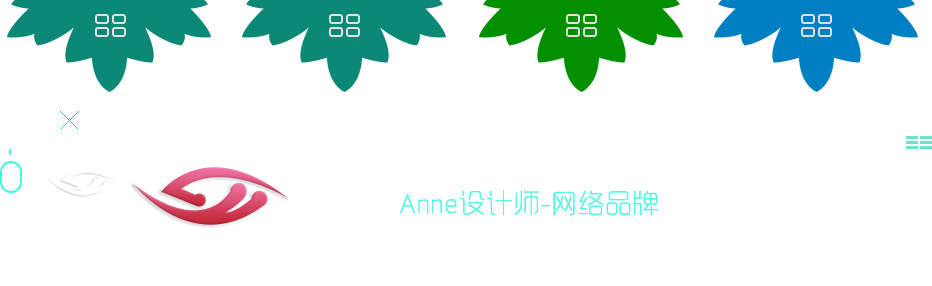
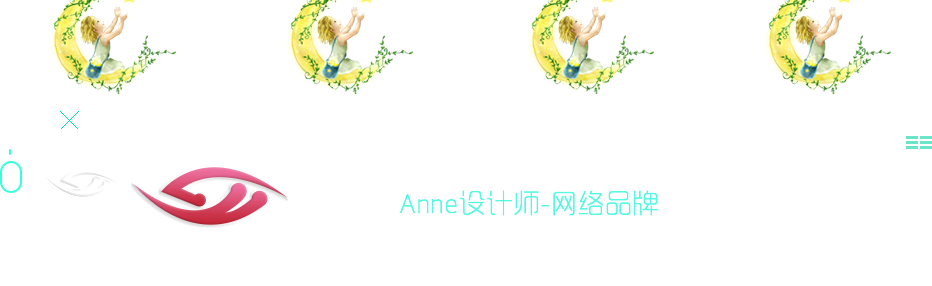
modified Anne's Web

Changed region(s): [[0.0, 0.0, 0.9957, 0.3357]]

diff --git a/css/main.css b/css/main.css
@@ -81,8 +81,8 @@ a:hover {
     display: block;
     margin: 0 auto;
     width: 258px;
-    height: 25px;
-    background: url(../img2/icon.png) /*tpa=http://www.cj-designrs.com/images/icon.png*/ no-repeat -401px -192px;
+    height: 31px;
+    background: url(../img2/icon.png) /*tpa=http://www.cj-designrs.com/images/icon.png*/ no-repeat -401px -186px;
     opacity: 1;
 }
 
@@ -351,7 +351,7 @@ a:hover {
 }
 
 .wb {
-    background: url(../img2/logo1.png) /*tpa=http://www.cj-designrs.com/images/logo1.png*/;
+    background: url(../img/logo1.png) /*tpa=http://www.cj-designrs.com/images/logo1.png*/;
 }
 
 .bg13 {
@@ -447,14 +447,6 @@ a:hover {
     -ms-transition: all 1s;
 }
 
-.logo_l {
-
-}
-
-.logo_y {
-
-}
-
 .active .bg13 {
     top: 0;
     margin: 0px 0 0 -237px;
@@ -519,6 +511,76 @@ a:hover {
     -webkit-transition-delay: 1.2s;
     -moz-transition-delay: 1.2s;
     -ms-transition-delay: 1.2s;
+}
+
+.logo_src {
+    background: url("../img2/logo1.png");
+}
+
+.logo_l {
+    position: absolute;
+    top: 0;
+    left: 0;
+    margin: -250px 0 0 -237px;
+    width: 885px;
+    height: 278px;
+    background-position: 0 0;
+    opacity: 0;
+    -webkit-transform: scale(1.8, 1.8);
+    -moz-transform: scale(1.8, 1.8);
+    -ms-transform: scale(1.8, 1.8);
+    transform: scale(1.8, 1.8);
+    transition: all 1s;
+    -webkit-transition: all 1s;
+    -moz-transition: all 1s;
+    -ms-transition: all 1s;
+}
+
+.logo_y {
+    position: absolute;
+    top: 0;
+    left: 0;
+    margin: -250px 0 0 -237px;
+    width: 885px;
+    height: 278px;
+    background-position: 0 0;
+    opacity: 0;
+    -webkit-transform: scale(1.8, 1.8);
+    -moz-transform: scale(1.8, 1.8);
+    -ms-transform: scale(1.8, 1.8);
+    transform: scale(1.8, 1.8);
+    transition: all 1s;
+    -webkit-transition: all 1s;
+    -moz-transition: all 1s;
+    -ms-transition: all 1s;
+}
+
+.active .logo_l {
+    top: 0;
+    margin: 0px 0 0 -237px;
+    opacity: 1;
+    -webkit-transform: scale(1, 1);
+    -moz-transform: scale(1, 1);
+    -ms-transform: scale(1, 1);
+    transform: scale(1, 1);
+    transition-delay: 1s;
+    -webkit-transition-delay: 1s;
+    -moz-transition-delay: 1s;
+    -ms-transition-delay: 1s;
+}
+
+.active .logo_y {
+    top: 0%;
+    margin: 0px 0px 0 -237px;
+    opacity: 1;
+    -webkit-transform: scale(1, 1);
+    -moz-transform: scale(1, 1);
+    -ms-transform: scale(1, 1);
+    transform: scale(1, 1);
+    transition-delay: 2.1s;
+    -webkit-transition-delay: 2.1s;
+    -moz-transition-delay: 2.1s;
+    -ms-transition-delay: 2.1s;
 }
 
 /* 两边标题 */
@@ -630,14 +692,14 @@ a:hover {
     z-index: 9;
     margin: -247px 0 0 -112px;
     height: 69px;
-    background: #00b38a;
+    background: #07182a;
     opacity: 0;
     transition: all 1.7s;
     bottom: 90px \0;
 }
 
 .active .bg18 {
-    background: #00b38a;
+    background: #07182a;
     margin: -247px 0 0 -112px;
     opacity: 1;
     transition-delay: 1.7s;
@@ -937,7 +999,7 @@ a:hover {
     position: absolute;
     top: 0;
     left: 0;
-    background: #00b38a;
+    background: #07182a;
     opacity: 1;
     -moz-transition: all ease 0.5s;
     -webkit-transition: all ease 0.5s;
@@ -1083,7 +1145,7 @@ a:hover {
     z-index: 9;
     margin: -249px 0 0 -112px;
     height: 69px;
-    background: #04b100;
+    background: #10202d;
     opacity: 0;
     transition: all 1.4s;
     bottom: 90px \0;
@@ -1350,7 +1412,7 @@ a:hover {
     -o-transition: all 1s;
 }
 
-.html {
+.illustrator {
     display: block;
     position: absolute;
     width: 0px;
@@ -1366,7 +1428,7 @@ a:hover {
     -o-transition: all 1.5s;
 }
 
-.illustrator {
+.html {
     display: block;
     position: absolute;
     width: 0px;
@@ -1408,7 +1470,7 @@ a:hover {
     -o-transition-delay: 0.7s;
 }
 
-.active .html {
+.active .illustrator {
     display: block;
     width: 327px;
     -webkit-transition-delay: 0.7s;
@@ -1417,7 +1479,7 @@ a:hover {
     -o-transition-delay: 0.7s;
 }
 
-.active .illustrator {
+.active .html {
     display: block;
     width: 257px;
     -webkit-transition-delay: 0.7s;
@@ -1491,7 +1553,7 @@ a:hover {
     z-index: 9;
     margin: -248px 0 0 -112px;
     height: 69px;
-    background: #07a0f0;
+    background: #02384e;
     opacity: 0;
     transition: all 1.4s;
     bottom: 90px \0;
@@ -1862,19 +1924,19 @@ a:hover {
 }
 
 .meun-ul li:nth-child(1) {
-    background-color: #10675a;
+    background-color: #1a4877;
 }
 
 .meun-ul li:nth-child(2) {
-    background-color: #0b6053;
+    background-color: #0e3c6b;
 }
 
 .meun-ul li:nth-child(3) {
-    background-color: #10675a;
+    background-color: #1a4877;
 }
 
 .meun-ul li:nth-child(4) {
-    background-color: #0b6053;
+    background-color: #0e3c6b;
 }
 
 /* i */
@@ -1981,8 +2043,8 @@ a:hover {
 
 .meun-logo .icon-text {
     width: 259px;
-    height: 26px;
-    background: url(../img2/icon.png) /*tpa=http://www.cj-designrs.com/images/icon.png*/ no-repeat -399px -192px;
+    height: 30px;
+    background: url(../img2/icon.png) /*tpa=http://www.cj-designrs.com/images/icon.png*/ no-repeat -399px -188px;
     margin: 0 auto;
 }
 

diff --git a/index.html b/index.html
@@ -128,14 +128,14 @@
                 </div>
             </div>
             <div class="cj_title dong1">
-                <!--<div class="wb bg13"></div>-->
-                <!--<div class="wb bg112"></div>-->
-                <!--<div class="wb bg113"></div>-->
-                <!--<div class="wb bg114"></div>-->
-                <!--<div class="wb bg115"></div>-->
+                <!--<div class="wb bg13"></div>
+                <div class="wb bg112"></div>
+                <div class="wb bg113"></div>
+                <div class="wb bg114"></div>
+                <div class="wb bg115"></div>-->
 
-                <!--<div class="wb logo_l"></div>
-                <div class="wb logo_y"></div>-->
+                <!--<div class="logo_src logo_l"></div>
+                <div class="logo_src logo_y"></div>-->
             </div>
         </div>
     </div>
@@ -144,7 +144,7 @@
         <div class="reg1"><a
                 style="background: url(img2/icon.png)/*tpa=http://www.cj-designrs.com/images/icon.png*/ no-repeat -238px 0;"
                 href="#" onclick="return false;"></a></div>
-        <div class="bg" style="background:#00b38a;"></div>
+        <div class="bg" style="background:#07182a;"></div>
         <div class="bg17"></div>
         <div class="bg18"></div>
         <div class="bg19"></div>
@@ -226,7 +226,7 @@
         <div class="reg1"><a
                 style="background: url(img2/icon.png)/*tpa=http://www.cj-designrs.com/images/icon.png*/ no-repeat -474px 0;"
                 href="#" onclick="return false;"></a></div>
-        <div class="bg" style="background:#04b100;"></div>
+        <div class="bg" style="background:#10202d;"></div>
         <div class="bg20"></div>
         <div class="bg21"></div>
         <div class="bg22"></div>
@@ -262,12 +262,12 @@
                         <em>Photoshop</em>
                     </li>
                     <li>
-                        <i class="html"></i>
-                        <em>Html / Css</em>
-                    </li>
-                    <li>
                         <i class="illustrator"></i>
                         <em>Illustrator</em>
+                    </li>
+                    <li>
+                        <i class="html"></i>
+                        <em>Html / Css</em>
                     </li>
                     <li>
                         <i class="axure"></i>
@@ -285,7 +285,7 @@
         <div class="reg1"><a
                 style="background: url(img2/icon.png)/*tpa=http://www.cj-designrs.com/images/icon.png*/ no-repeat -710px 0;"
                 href="#" onclick="return false;"></a></div>
-        <div class="bg" style="background:#07a0f0;"></div>
+        <div class="bg" style="background:#02384e;"></div>
         <div class="bg24"></div>
         <div class="bg25"></div>
         <div class="bg26"></div>

diff --git a/css/works.css b/css/works.css
@@ -744,7 +744,7 @@ a:hover {
 
 .abottom {
     width: 100%;
-    height: 290px;
+    height: 100px;
     background: #007157;
     margin-top: 15px;
     overflow: hidden;
@@ -768,7 +768,7 @@ a:hover {
     width: 99px;
     height: 24px;
     background: #007157;
-    margin: 114px auto;
+    margin: 34px auto;
     overflow: hidden;
 }
 
